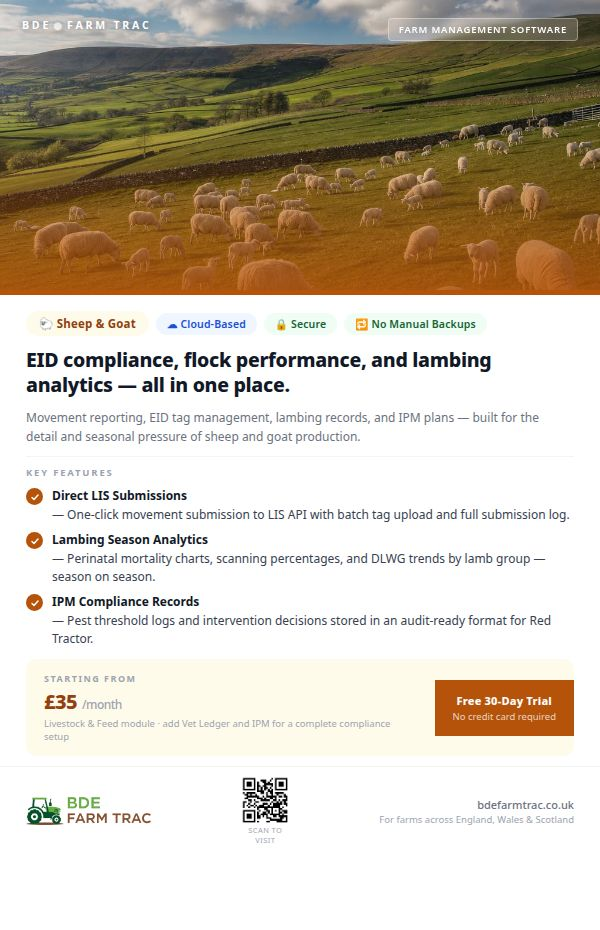
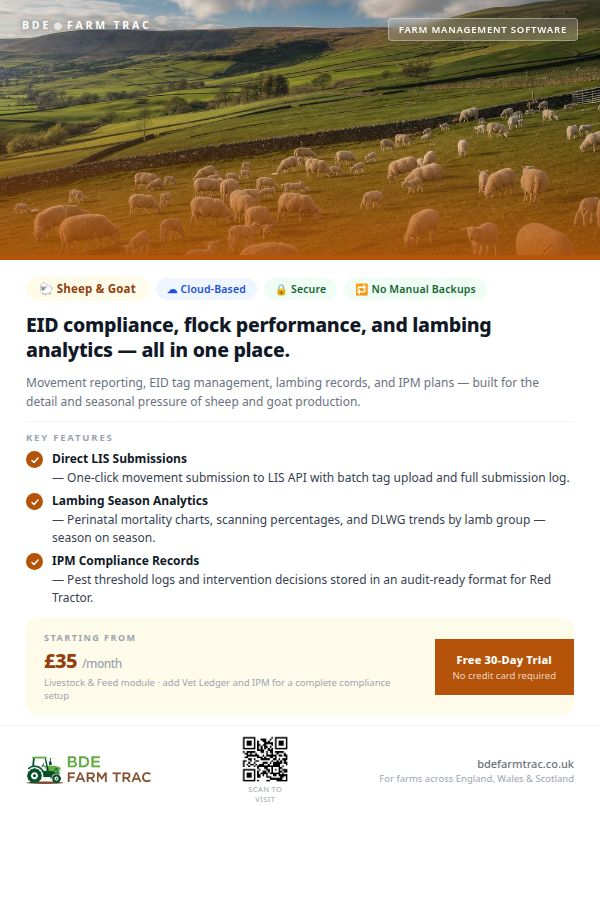
Update content and screenshots for v2 leaflets
Replit-Commit-Author: Agent

diff --git a/artifacts/website/public/leaflets/arable-v2.html b/artifacts/website/public/leaflets/arable-v2.html
@@ -5,8 +5,8 @@
     <meta name="viewport" content="width=600">
     <style>
     *{box-sizing:border-box;margin:0;padding:0}
-    html,body{width:600px;height:fit-content;background:#fff;font-family:-apple-system,'Helvetica Neue',Arial,sans-serif;-webkit-font-smoothing:antialiased}
-    .hero{position:relative;width:600px;height:290px;overflow:hidden}
+    html,body{width:600px;background:#fff;font-family:-apple-system,'Helvetica Neue',Arial,sans-serif;-webkit-font-smoothing:antialiased}
+    .hero{position:relative;width:600px;height:255px;overflow:hidden}
     .hero img{width:100%;height:100%;object-fit:cover;object-position:center}
     .hero-grad{position:absolute;inset:0;background:linear-gradient(to bottom,rgba(0,0,0,.08) 0%,rgba(0,0,0,.02) 45%,#92400ECC 100%)}
     .wordmark{position:absolute;top:18px;left:22px;color:#fff;font-size:10.5px;font-weight:700;letter-spacing:2.8px;text-transform:uppercase;text-shadow:0 1px 6px rgba(0,0,0,.5)}
@@ -18,8 +18,8 @@
     .headline{font-size:19.5px;font-weight:800;line-height:1.28;color:#111827;margin-bottom:10px;letter-spacing:-.3px}
     .intro{font-size:12px;line-height:1.6;color:#6B7280;margin-bottom:10px;max-width:540px}
     .divider{height:1px;background:#F3F4F6;margin:0 0 9px}
-    .features-label{font-size:9.5px;font-weight:700;letter-spacing:1.8px;text-transform:uppercase;color:#9CA3AF;margin-bottom:8px}
-    .feature{display:flex;align-items:flex-start;gap:9px;margin-bottom:7px}
+    .features-label{font-size:9.5px;font-weight:700;letter-spacing:1.8px;text-transform:uppercase;color:#9CA3AF;margin-bottom:6px}
+    .feature{display:flex;align-items:flex-start;gap:9px;margin-bottom:5px}
     .check{width:17px;height:17px;border-radius:50%;background:#92400E;flex-shrink:0;margin-top:1px;display:flex;align-items:center;justify-content:center}
     .check svg{width:10px;height:10px}
     .feature-text{font-size:12px;line-height:1.5;color:#374151}
@@ -45,6 +45,12 @@
 .footer-logo-img{height:28px;width:auto;display:block}
 .footer-qr{display:flex;flex-direction:column;align-items:center;gap:2px}
 .footer-qr-label{font-size:7.5px;color:#9CA3AF;letter-spacing:.4px;text-transform:uppercase;text-align:center;line-height:1.3}
+
+@page { size: A5 portrait; margin: 0; }
+@media print {
+  html { width: 148mm; height: 210mm; overflow: hidden; }
+  body { overflow: hidden; }
+}
 </style>
     </head>
     <body>

diff --git a/artifacts/website/public/leaflets/beef-dairy-v2.html b/artifacts/website/public/leaflets/beef-dairy-v2.html
@@ -5,8 +5,8 @@
     <meta name="viewport" content="width=600">
     <style>
     *{box-sizing:border-box;margin:0;padding:0}
-    html,body{width:600px;height:fit-content;background:#fff;font-family:-apple-system,'Helvetica Neue',Arial,sans-serif;-webkit-font-smoothing:antialiased}
-    .hero{position:relative;width:600px;height:290px;overflow:hidden}
+    html,body{width:600px;background:#fff;font-family:-apple-system,'Helvetica Neue',Arial,sans-serif;-webkit-font-smoothing:antialiased}
+    .hero{position:relative;width:600px;height:255px;overflow:hidden}
     .hero img{width:100%;height:100%;object-fit:cover;object-position:center}
     .hero-grad{position:absolute;inset:0;background:linear-gradient(to bottom,rgba(0,0,0,.08) 0%,rgba(0,0,0,.02) 45%,#B91C1CCC 100%)}
     .wordmark{position:absolute;top:18px;left:22px;color:#fff;font-size:10.5px;font-weight:700;letter-spacing:2.8px;text-transform:uppercase;text-shadow:0 1px 6px rgba(0,0,0,.5)}
@@ -18,8 +18,8 @@
     .headline{font-size:19.5px;font-weight:800;line-height:1.28;color:#111827;margin-bottom:10px;letter-spacing:-.3px}
     .intro{font-size:12px;line-height:1.6;color:#6B7280;margin-bottom:10px;max-width:540px}
     .divider{height:1px;background:#F3F4F6;margin:0 0 9px}
-    .features-label{font-size:9.5px;font-weight:700;letter-spacing:1.8px;text-transform:uppercase;color:#9CA3AF;margin-bottom:8px}
-    .feature{display:flex;align-items:flex-start;gap:9px;margin-bottom:7px}
+    .features-label{font-size:9.5px;font-weight:700;letter-spacing:1.8px;text-transform:uppercase;color:#9CA3AF;margin-bottom:6px}
+    .feature{display:flex;align-items:flex-start;gap:9px;margin-bottom:5px}
     .check{width:17px;height:17px;border-radius:50%;background:#B91C1C;flex-shrink:0;margin-top:1px;display:flex;align-items:center;justify-content:center}
     .check svg{width:10px;height:10px}
     .feature-text{font-size:12px;line-height:1.5;color:#374151}
@@ -45,6 +45,12 @@
 .footer-logo-img{height:28px;width:auto;display:block}
 .footer-qr{display:flex;flex-direction:column;align-items:center;gap:2px}
 .footer-qr-label{font-size:7.5px;color:#9CA3AF;letter-spacing:.4px;text-transform:uppercase;text-align:center;line-height:1.3}
+
+@page { size: A5 portrait; margin: 0; }
+@media print {
+  html { width: 148mm; height: 210mm; overflow: hidden; }
+  body { overflow: hidden; }
+}
 </style>
     </head>
     <body>

diff --git a/artifacts/website/public/leaflets/contracting-v2.html b/artifacts/website/public/leaflets/contracting-v2.html
@@ -5,8 +5,8 @@
     <meta name="viewport" content="width=600">
     <style>
     *{box-sizing:border-box;margin:0;padding:0}
-    html,body{width:600px;height:fit-content;background:#fff;font-family:-apple-system,'Helvetica Neue',Arial,sans-serif;-webkit-font-smoothing:antialiased}
-    .hero{position:relative;width:600px;height:290px;overflow:hidden}
+    html,body{width:600px;background:#fff;font-family:-apple-system,'Helvetica Neue',Arial,sans-serif;-webkit-font-smoothing:antialiased}
+    .hero{position:relative;width:600px;height:255px;overflow:hidden}
     .hero img{width:100%;height:100%;object-fit:cover;object-position:center}
     .hero-grad{position:absolute;inset:0;background:linear-gradient(to bottom,rgba(0,0,0,.08) 0%,rgba(0,0,0,.02) 45%,#1D4ED8CC 100%)}
     .wordmark{position:absolute;top:18px;left:22px;color:#fff;font-size:10.5px;font-weight:700;letter-spacing:2.8px;text-transform:uppercase;text-shadow:0 1px 6px rgba(0,0,0,.5)}
@@ -18,8 +18,8 @@
     .headline{font-size:19.5px;font-weight:800;line-height:1.28;color:#111827;margin-bottom:10px;letter-spacing:-.3px}
     .intro{font-size:12px;line-height:1.6;color:#6B7280;margin-bottom:10px;max-width:540px}
     .divider{height:1px;background:#F3F4F6;margin:0 0 9px}
-    .features-label{font-size:9.5px;font-weight:700;letter-spacing:1.8px;text-transform:uppercase;color:#9CA3AF;margin-bottom:8px}
-    .feature{display:flex;align-items:flex-start;gap:9px;margin-bottom:7px}
+    .features-label{font-size:9.5px;font-weight:700;letter-spacing:1.8px;text-transform:uppercase;color:#9CA3AF;margin-bottom:6px}
+    .feature{display:flex;align-items:flex-start;gap:9px;margin-bottom:5px}
     .check{width:17px;height:17px;border-radius:50%;background:#1D4ED8;flex-shrink:0;margin-top:1px;display:flex;align-items:center;justify-content:center}
     .check svg{width:10px;height:10px}
     .feature-text{font-size:12px;line-height:1.5;color:#374151}
@@ -45,6 +45,12 @@
 .footer-logo-img{height:28px;width:auto;display:block}
 .footer-qr{display:flex;flex-direction:column;align-items:center;gap:2px}
 .footer-qr-label{font-size:7.5px;color:#9CA3AF;letter-spacing:.4px;text-transform:uppercase;text-align:center;line-height:1.3}
+
+@page { size: A5 portrait; margin: 0; }
+@media print {
+  html { width: 148mm; height: 210mm; overflow: hidden; }
+  body { overflow: hidden; }
+}
 </style>
     </head>
     <body>

diff --git a/artifacts/website/public/leaflets/mixed-v2.html b/artifacts/website/public/leaflets/mixed-v2.html
@@ -5,8 +5,8 @@
     <meta name="viewport" content="width=600">
     <style>
     *{box-sizing:border-box;margin:0;padding:0}
-    html,body{width:600px;height:fit-content;background:#fff;font-family:-apple-system,'Helvetica Neue',Arial,sans-serif;-webkit-font-smoothing:antialiased}
-    .hero{position:relative;width:600px;height:290px;overflow:hidden}
+    html,body{width:600px;background:#fff;font-family:-apple-system,'Helvetica Neue',Arial,sans-serif;-webkit-font-smoothing:antialiased}
+    .hero{position:relative;width:600px;height:255px;overflow:hidden}
     .hero img{width:100%;height:100%;object-fit:cover;object-position:center}
     .hero-grad{position:absolute;inset:0;background:linear-gradient(to bottom,rgba(0,0,0,.08) 0%,rgba(0,0,0,.02) 45%,#2D6A2ECC 100%)}
     .wordmark{position:absolute;top:18px;left:22px;color:#fff;font-size:10.5px;font-weight:700;letter-spacing:2.8px;text-transform:uppercase;text-shadow:0 1px 6px rgba(0,0,0,.5)}
@@ -18,8 +18,8 @@
     .headline{font-size:19.5px;font-weight:800;line-height:1.28;color:#111827;margin-bottom:10px;letter-spacing:-.3px}
     .intro{font-size:12px;line-height:1.6;color:#6B7280;margin-bottom:10px;max-width:540px}
     .divider{height:1px;background:#F3F4F6;margin:0 0 9px}
-    .features-label{font-size:9.5px;font-weight:700;letter-spacing:1.8px;text-transform:uppercase;color:#9CA3AF;margin-bottom:8px}
-    .feature{display:flex;align-items:flex-start;gap:9px;margin-bottom:7px}
+    .features-label{font-size:9.5px;font-weight:700;letter-spacing:1.8px;text-transform:uppercase;color:#9CA3AF;margin-bottom:6px}
+    .feature{display:flex;align-items:flex-start;gap:9px;margin-bottom:5px}
     .check{width:17px;height:17px;border-radius:50%;background:#2D6A2E;flex-shrink:0;margin-top:1px;display:flex;align-items:center;justify-content:center}
     .check svg{width:10px;height:10px}
     .feature-text{font-size:12px;line-height:1.5;color:#374151}
@@ -45,6 +45,12 @@
 .footer-logo-img{height:28px;width:auto;display:block}
 .footer-qr{display:flex;flex-direction:column;align-items:center;gap:2px}
 .footer-qr-label{font-size:7.5px;color:#9CA3AF;letter-spacing:.4px;text-transform:uppercase;text-align:center;line-height:1.3}
+
+@page { size: A5 portrait; margin: 0; }
+@media print {
+  html { width: 148mm; height: 210mm; overflow: hidden; }
+  body { overflow: hidden; }
+}
 </style>
     </head>
     <body>

diff --git a/artifacts/website/public/leaflets/sheep-goat-v2.html b/artifacts/website/public/leaflets/sheep-goat-v2.html
@@ -5,8 +5,8 @@
     <meta name="viewport" content="width=600">
     <style>
     *{box-sizing:border-box;margin:0;padding:0}
-    html,body{width:600px;height:fit-content;background:#fff;font-family:-apple-system,'Helvetica Neue',Arial,sans-serif;-webkit-font-smoothing:antialiased}
-    .hero{position:relative;width:600px;height:290px;overflow:hidden}
+    html,body{width:600px;background:#fff;font-family:-apple-system,'Helvetica Neue',Arial,sans-serif;-webkit-font-smoothing:antialiased}
+    .hero{position:relative;width:600px;height:255px;overflow:hidden}
     .hero img{width:100%;height:100%;object-fit:cover;object-position:center}
     .hero-grad{position:absolute;inset:0;background:linear-gradient(to bottom,rgba(0,0,0,.08) 0%,rgba(0,0,0,.02) 45%,#B45309CC 100%)}
     .wordmark{position:absolute;top:18px;left:22px;color:#fff;font-size:10.5px;font-weight:700;letter-spacing:2.8px;text-transform:uppercase;text-shadow:0 1px 6px rgba(0,0,0,.5)}
@@ -18,8 +18,8 @@
     .headline{font-size:19.5px;font-weight:800;line-height:1.28;color:#111827;margin-bottom:10px;letter-spacing:-.3px}
     .intro{font-size:12px;line-height:1.6;color:#6B7280;margin-bottom:10px;max-width:540px}
     .divider{height:1px;background:#F3F4F6;margin:0 0 9px}
-    .features-label{font-size:9.5px;font-weight:700;letter-spacing:1.8px;text-transform:uppercase;color:#9CA3AF;margin-bottom:8px}
-    .feature{display:flex;align-items:flex-start;gap:9px;margin-bottom:7px}
+    .features-label{font-size:9.5px;font-weight:700;letter-spacing:1.8px;text-transform:uppercase;color:#9CA3AF;margin-bottom:6px}
+    .feature{display:flex;align-items:flex-start;gap:9px;margin-bottom:5px}
     .check{width:17px;height:17px;border-radius:50%;background:#B45309;flex-shrink:0;margin-top:1px;display:flex;align-items:center;justify-content:center}
     .check svg{width:10px;height:10px}
     .feature-text{font-size:12px;line-height:1.5;color:#374151}
@@ -45,6 +45,12 @@
 .footer-logo-img{height:28px;width:auto;display:block}
 .footer-qr{display:flex;flex-direction:column;align-items:center;gap:2px}
 .footer-qr-label{font-size:7.5px;color:#9CA3AF;letter-spacing:.4px;text-transform:uppercase;text-align:center;line-height:1.3}
+
+@page { size: A5 portrait; margin: 0; }
+@media print {
+  html { width: 148mm; height: 210mm; overflow: hidden; }
+  body { overflow: hidden; }
+}
 </style>
     </head>
     <body>

diff --git a/artifacts/website/public/leaflets/viticulture-v2.html b/artifacts/website/public/leaflets/viticulture-v2.html
@@ -5,8 +5,8 @@
     <meta name="viewport" content="width=600">
     <style>
     *{box-sizing:border-box;margin:0;padding:0}
-    html,body{width:600px;height:fit-content;background:#fff;font-family:-apple-system,'Helvetica Neue',Arial,sans-serif;-webkit-font-smoothing:antialiased}
-    .hero{position:relative;width:600px;height:290px;overflow:hidden}
+    html,body{width:600px;background:#fff;font-family:-apple-system,'Helvetica Neue',Arial,sans-serif;-webkit-font-smoothing:antialiased}
+    .hero{position:relative;width:600px;height:255px;overflow:hidden}
     .hero img{width:100%;height:100%;object-fit:cover;object-position:center}
     .hero-grad{position:absolute;inset:0;background:linear-gradient(to bottom,rgba(0,0,0,.08) 0%,rgba(0,0,0,.02) 45%,#6D28D9CC 100%)}
     .wordmark{position:absolute;top:18px;left:22px;color:#fff;font-size:10.5px;font-weight:700;letter-spacing:2.8px;text-transform:uppercase;text-shadow:0 1px 6px rgba(0,0,0,.5)}
@@ -18,8 +18,8 @@
     .headline{font-size:19.5px;font-weight:800;line-height:1.28;color:#111827;margin-bottom:10px;letter-spacing:-.3px}
     .intro{font-size:12px;line-height:1.6;color:#6B7280;margin-bottom:10px;max-width:540px}
     .divider{height:1px;background:#F3F4F6;margin:0 0 9px}
-    .features-label{font-size:9.5px;font-weight:700;letter-spacing:1.8px;text-transform:uppercase;color:#9CA3AF;margin-bottom:8px}
-    .feature{display:flex;align-items:flex-start;gap:9px;margin-bottom:7px}
+    .features-label{font-size:9.5px;font-weight:700;letter-spacing:1.8px;text-transform:uppercase;color:#9CA3AF;margin-bottom:6px}
+    .feature{display:flex;align-items:flex-start;gap:9px;margin-bottom:5px}
     .check{width:17px;height:17px;border-radius:50%;background:#6D28D9;flex-shrink:0;margin-top:1px;display:flex;align-items:center;justify-content:center}
     .check svg{width:10px;height:10px}
     .feature-text{font-size:12px;line-height:1.5;color:#374151}
@@ -45,6 +45,12 @@
 .footer-logo-img{height:28px;width:auto;display:block}
 .footer-qr{display:flex;flex-direction:column;align-items:center;gap:2px}
 .footer-qr-label{font-size:7.5px;color:#9CA3AF;letter-spacing:.4px;text-transform:uppercase;text-align:center;line-height:1.3}
+
+@page { size: A5 portrait; margin: 0; }
+@media print {
+  html { width: 148mm; height: 210mm; overflow: hidden; }
+  body { overflow: hidden; }
+}
 </style>
     </head>
     <body>
